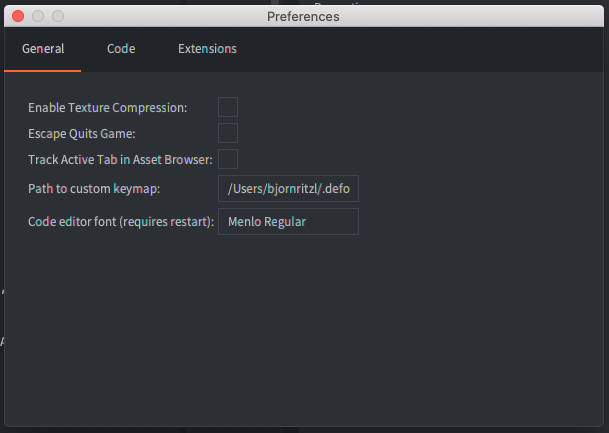
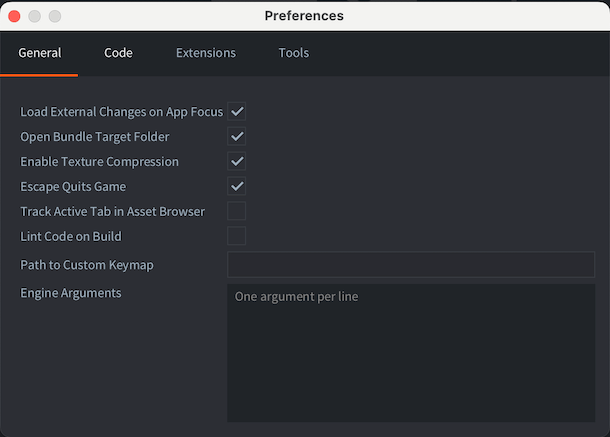
add engine arguments (#494)

diff --git a/docs/en/manuals/editor-preferences.md b/docs/en/manuals/editor-preferences.md
@@ -32,6 +32,15 @@ Lint Code on Build
 Path to custom keymap
 : Absolute path to a file containing [custom keyboard shortcuts](/manuals/editor-keyboard-shortcuts).
 
+Engine Arguments
+: Arguments that will be passed to the dmengine executables when the editor builds and runs.
+ Use one argument per line. For example:
+ ```
+--config=bootstrap.main_collection=/my dir/1.collectionc
+--verbose
+--graphics-adapter=vulkan
+```
+
 
 ## Code
 
